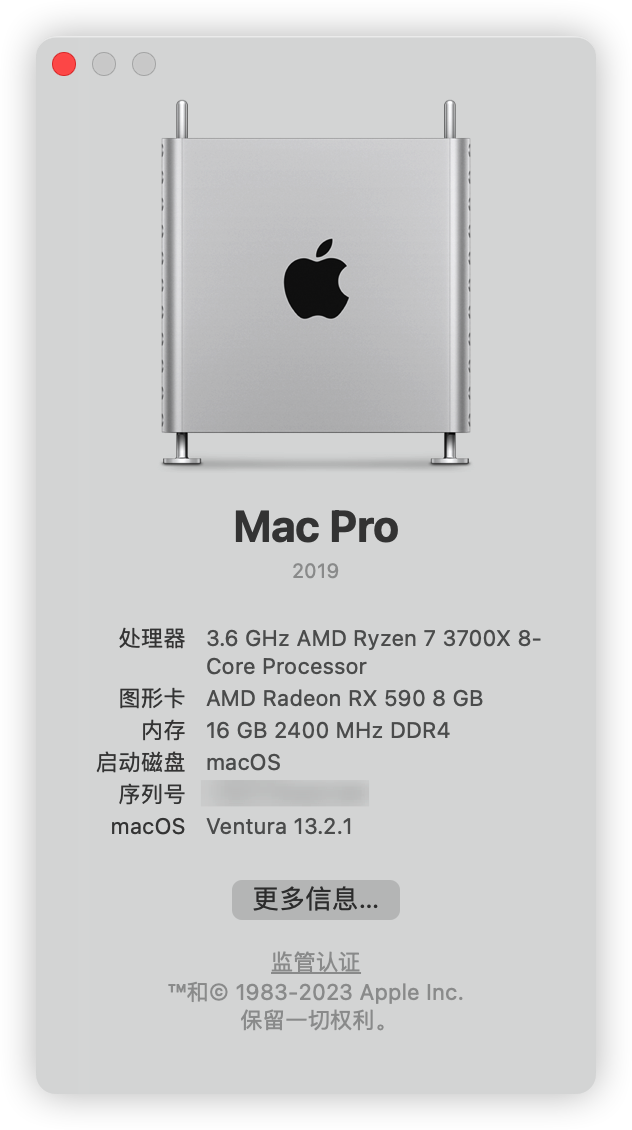
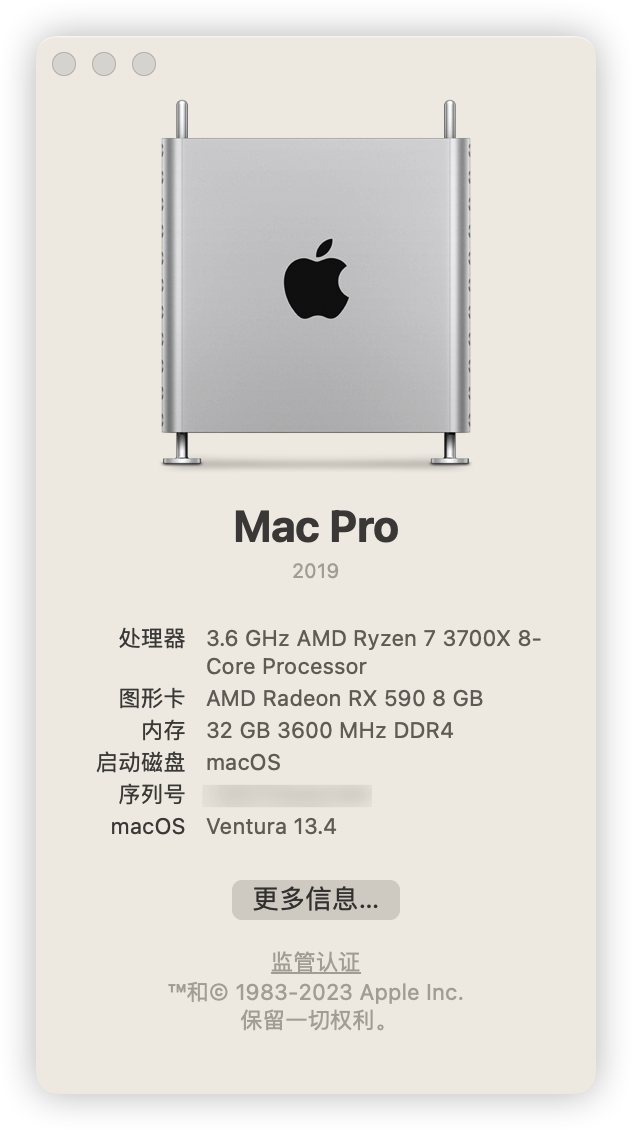
update README.md

diff --git a/README.md b/README.md
@@ -4,9 +4,9 @@
 
 ![macOS](Pictures/macOS.png)
 
-**OpenCore : 0.9.0**
+**OpenCore : 0.9.2**
 
-**macOS ：13.2.1**
+**macOS ：13.4**
 
 **SMBIOS : MacPro7,1**
 
@@ -37,7 +37,7 @@
   
   [USBToolBox](https://github.com/USBToolBox/toolhttps://github.com/USBToolBox/tool) (Include `USBToolBox.kext` and `UTBMap.kext`)
   
-  You can use it to generate your own usb configuration information
+  If you have USB problems, You can use it to generate your own usb configuration information
 
 - Wi-Fi
   
@@ -104,10 +104,18 @@ Now you can skip **Monterey** and upgrade to **Ventura**
 
 it works for me
 
+### Sonoma
+
+You need to disable `NVMeFix.kext` to start **Sonoma**
+
+![macOS Sonnoma](Pictures/macOS-Sonoma.png)
+
+**Be careful that some kext do not work**
+
 ### BIOS
 
-My bios version is `7C94v1D`
-
-You can download it [here](https://www.msicn.com.cn/Motherboard/MAG-B550M-MORTAR-WIFI/support#bios)
+My bios version is **[7C94v1F](https://download.msi.com/bos_exe/mb/7C94v1F.zip)**. You can download bios [here](https://www.msicn.com.cn/Motherboard/MAG-B550M-MORTAR-WIFI/support#bios)
 
 [AMD BIOS Settings](https://dortania.github.io/OpenCore-Install-Guide/AMD/zen.html#amd-bios-settings)
+
+I use `npci=0x3000` instead of enable **above 4G**
